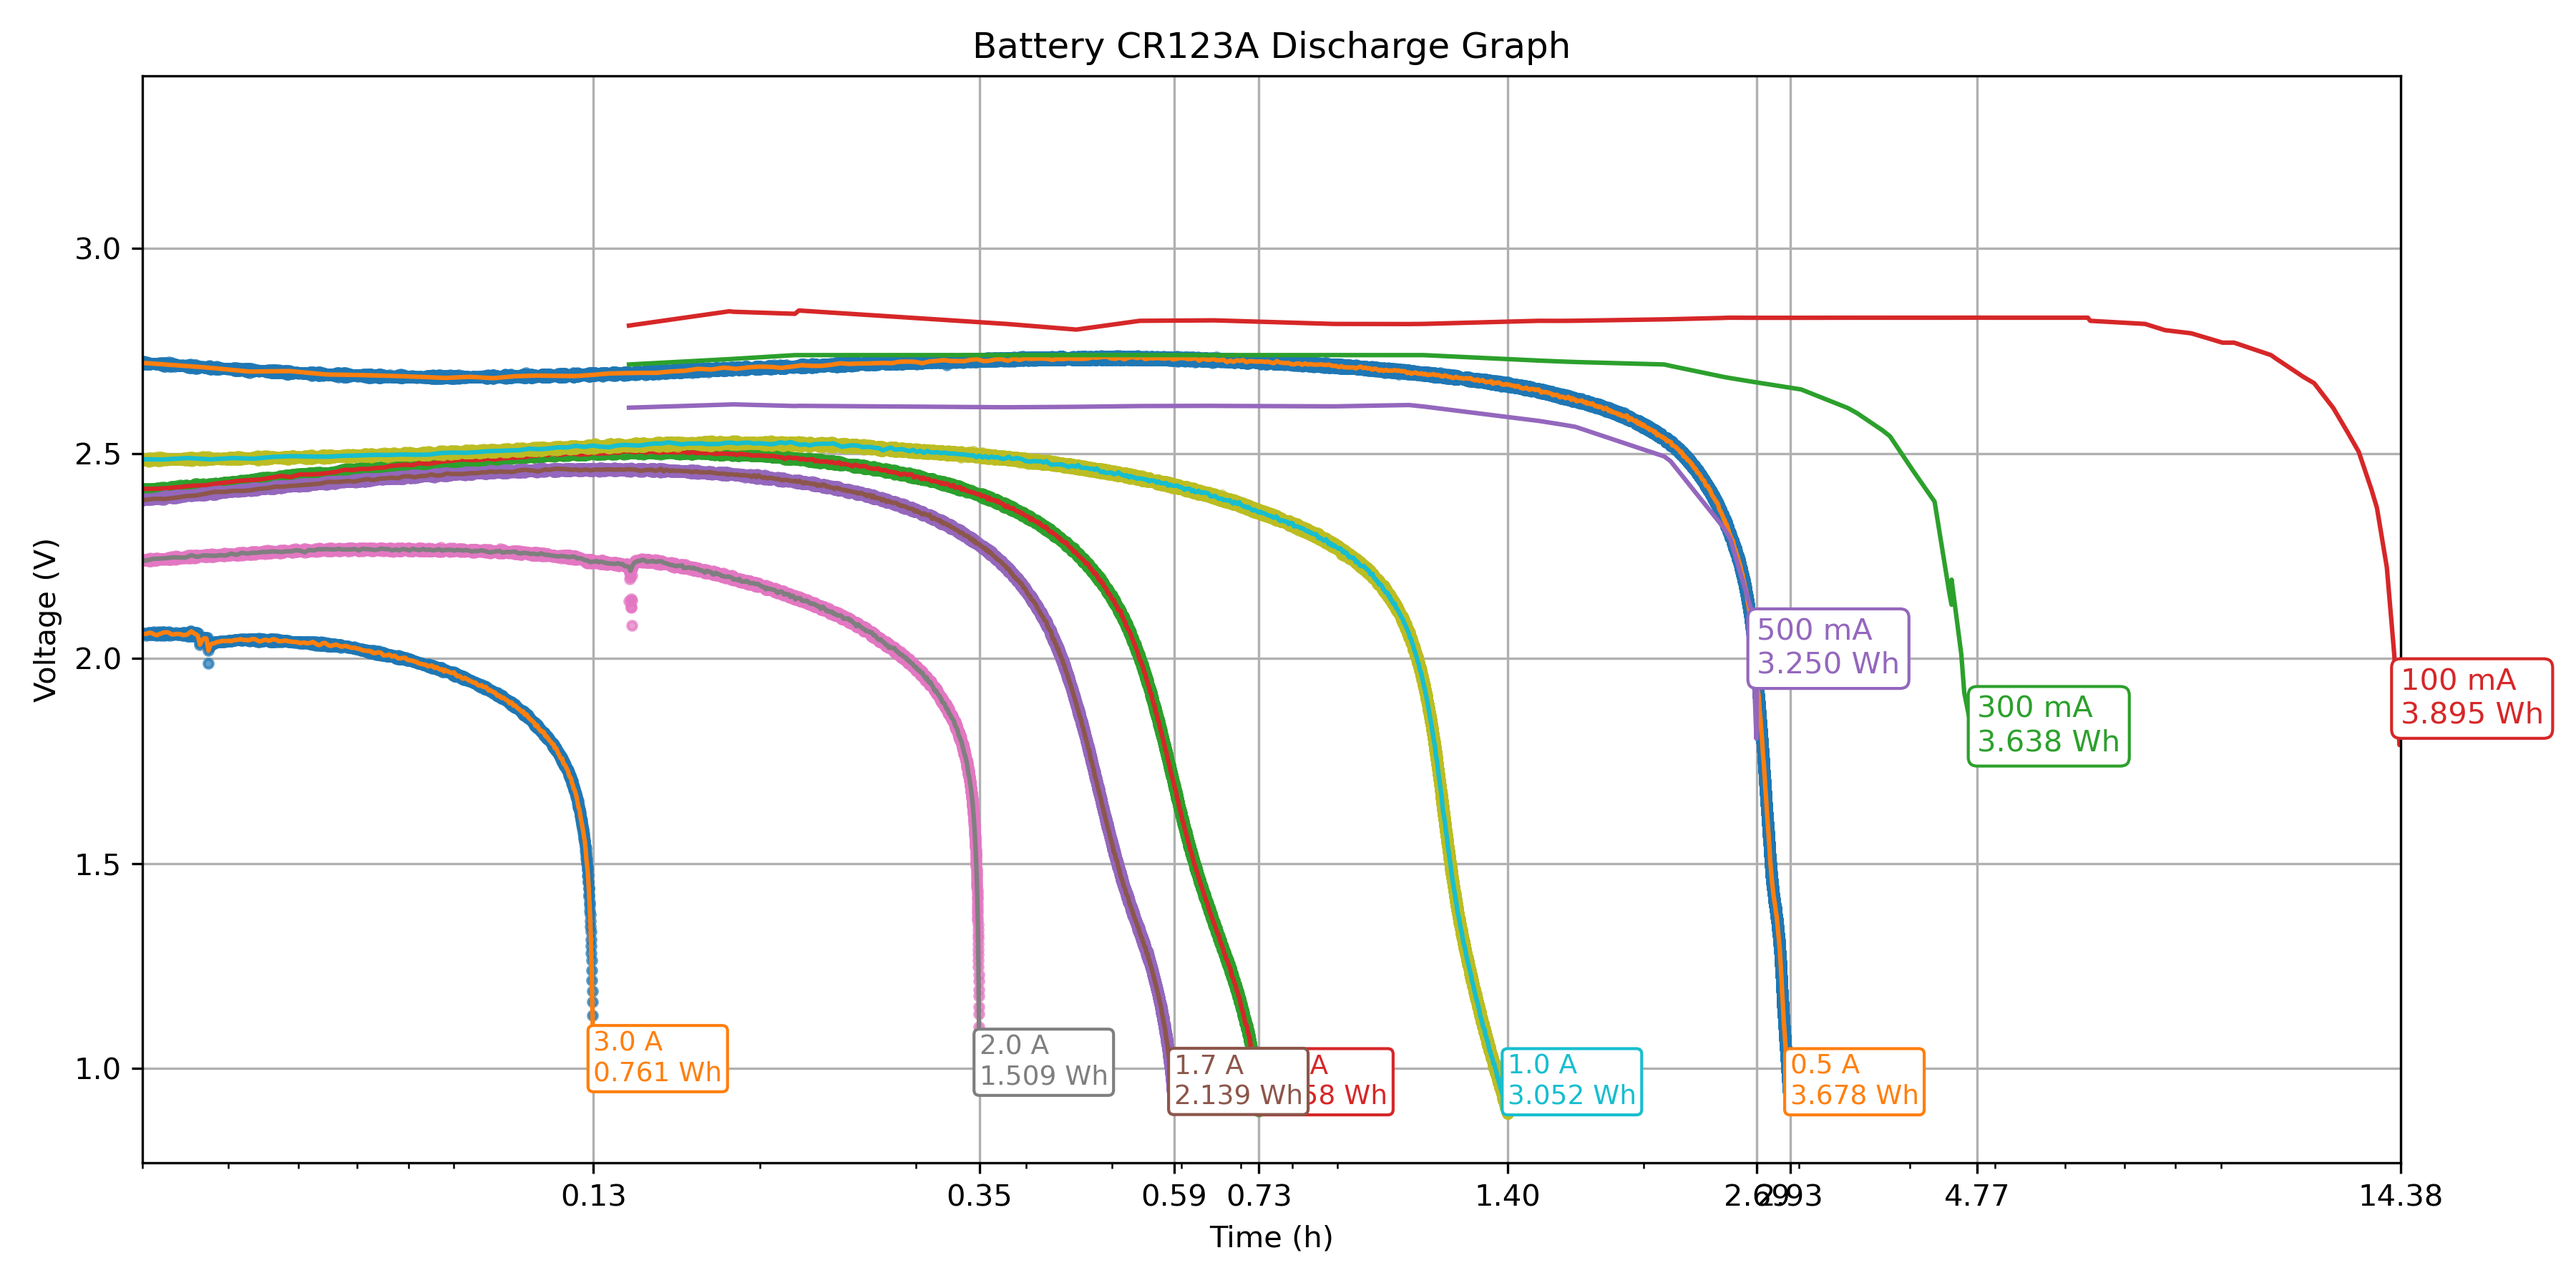
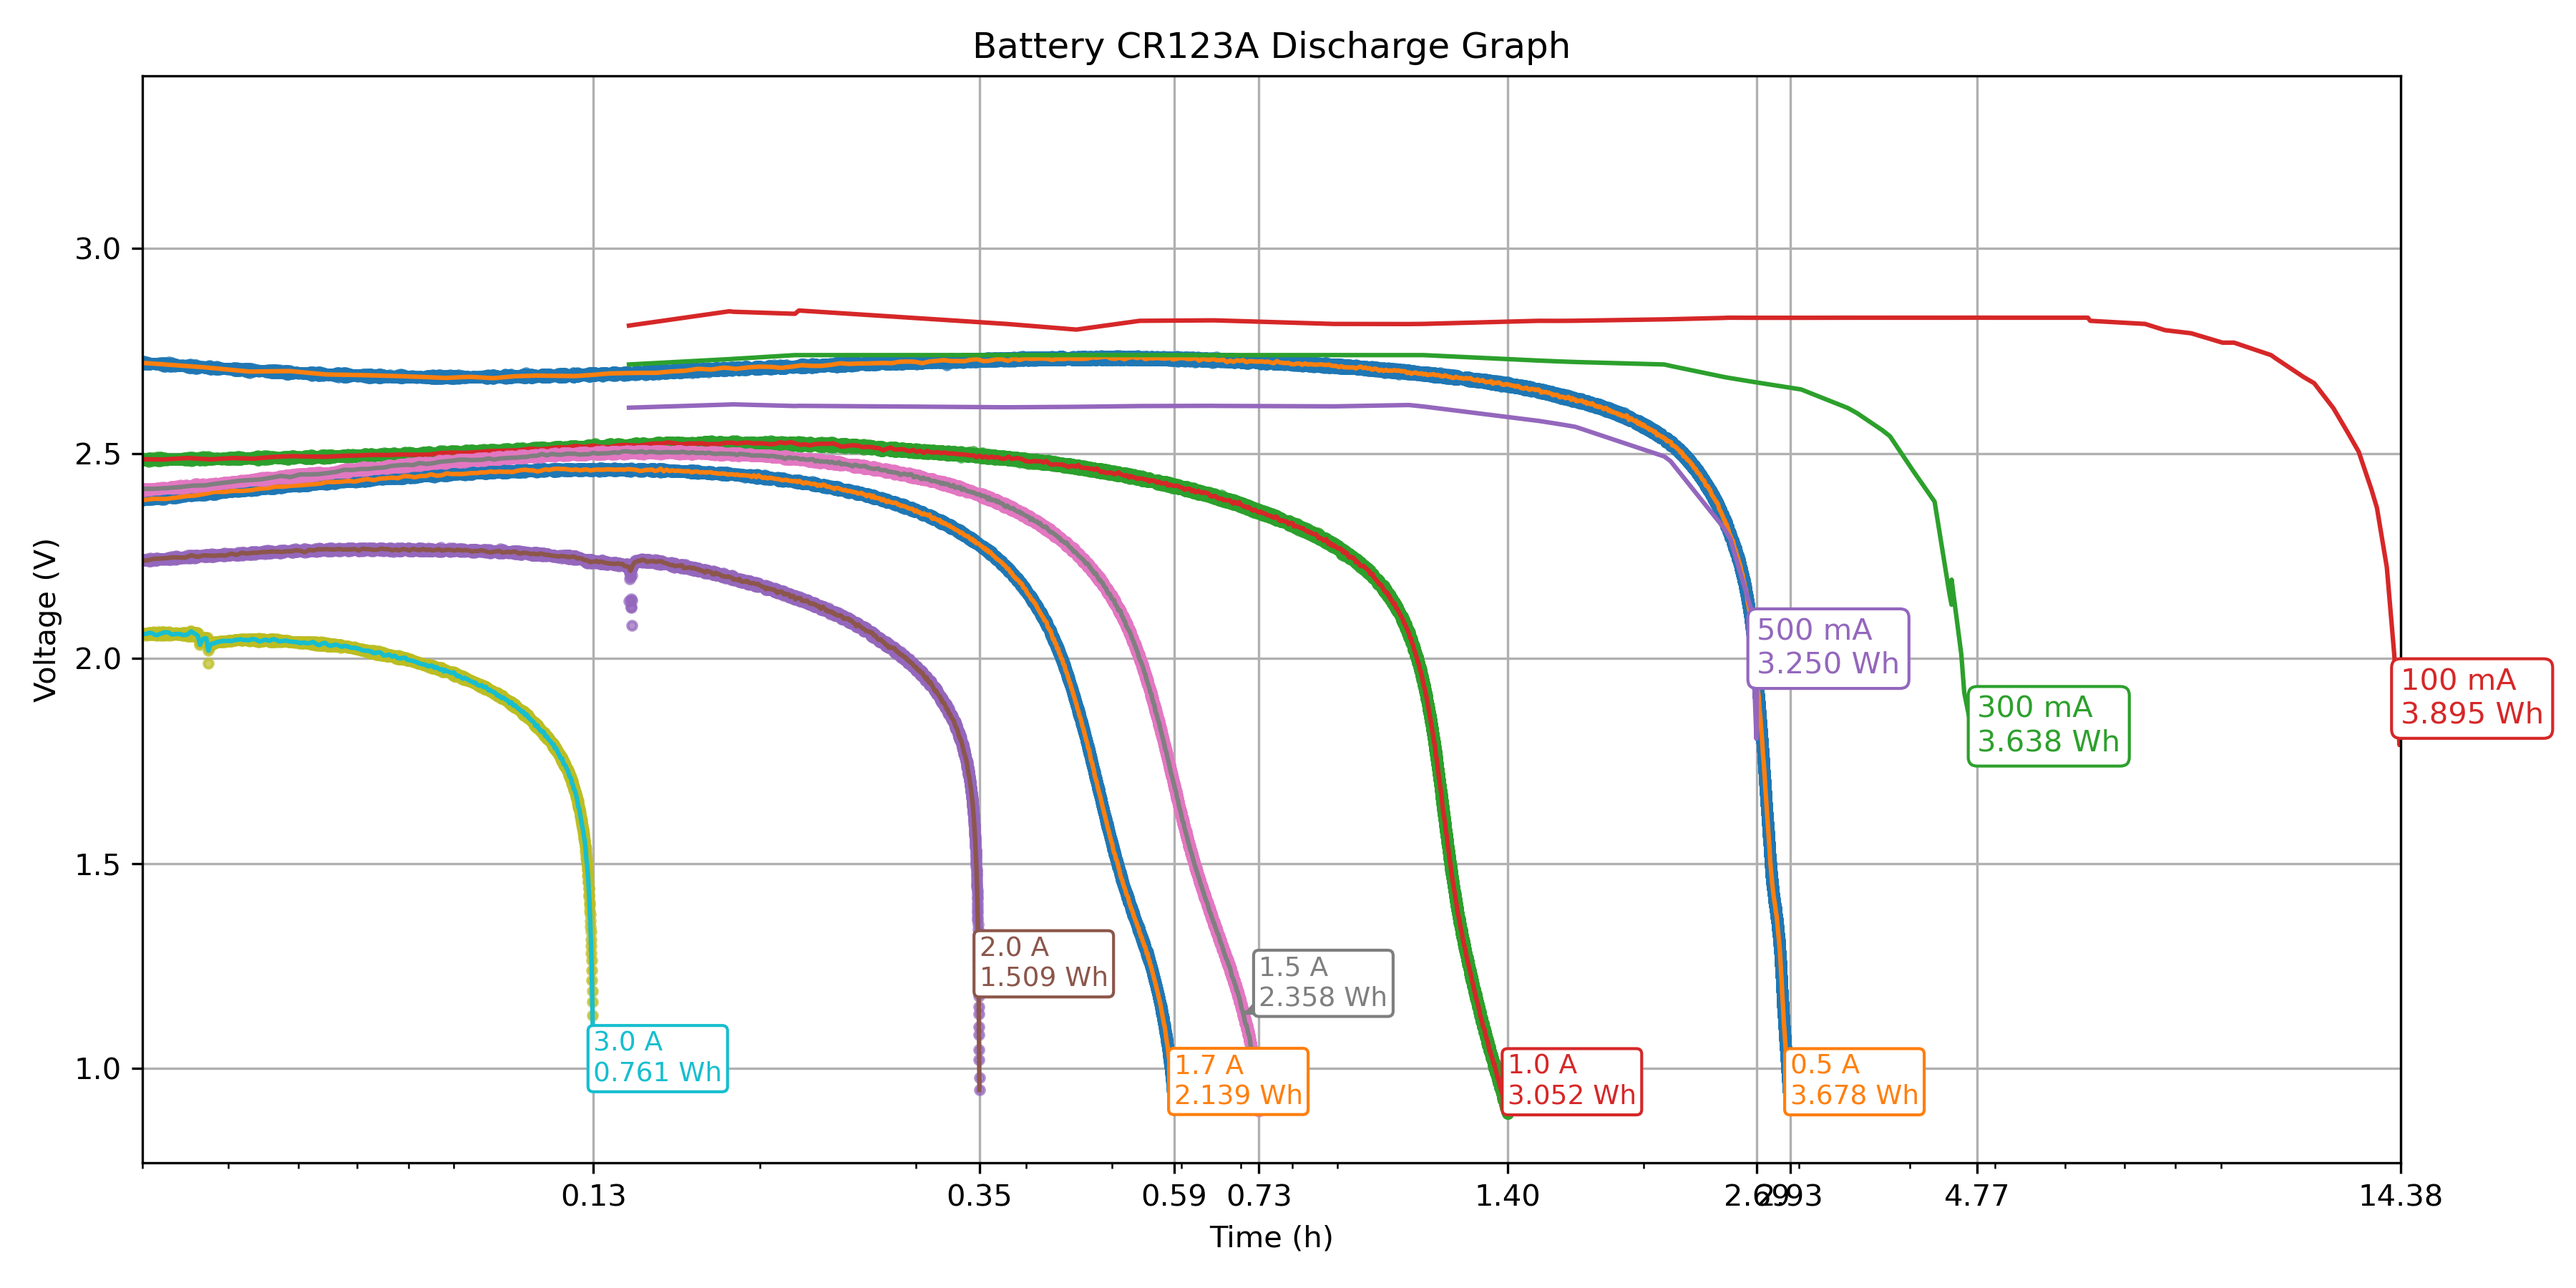
best view

diff --git a/view.py b/view.py
@@ -41,6 +41,158 @@ def calculate_energy(voltage_list, time_list, current_a):
     return energy_wh
 
 
+def estimate_annotation_size(text, fontsize=9):
+    """
+    Estimates the approximate size of an annotation based on the length of the text and font size.
+    
+    Parameters:
+        text: Annotation text
+        fontsize: Font size
+        
+    Returns:
+        tuple: (width, height) approximate dimensions
+    """
+    lines = text.split('\n')
+    max_line_length = max(len(line) for line in lines)
+    
+    # Improved coefficients for better size estimation
+    width_per_char = 0.015 * (fontsize / 9)  # Increased width per character
+    height_per_line = 0.06 * (fontsize / 9)  # Increased height per line
+    
+    # Add padding
+    width = max_line_length * width_per_char + 0.05
+    height = len(lines) * height_per_line + 0.02
+    
+    return width, height
+
+def rectangles_overlap(rect1, rect2, margin=0.08):
+    """
+    Checks if two rectangles overlap.
+    
+    Parameters:
+        rect1: (x, y, width, height) of the first rectangle
+        rect2: (x, y, width, height) of the second rectangle
+        margin: additional margin
+        
+    Returns:
+        bool: True if the rectangles overlap
+    """
+    x1, y1, w1, h1 = rect1
+    x2, y2, w2, h2 = rect2
+    
+    # Add margin to dimensions
+    w1 += margin
+    h1 += margin
+    w2 += margin
+    h2 += margin
+    
+    # Check for overlap
+    return not (x1 + w1 < x2 or x2 + w2 < x1 or y1 + h1 < y2 or y2 + h2 < y1)
+
+def find_free_position(text, orig_xy, annotated_rects, fontsize=9):
+    """
+    Finds a free position for an annotation.
+    
+    Parameters:
+        text: Annotation text
+        orig_xy: Original coordinates (x, y)
+        annotated_rects: List of rectangles of existing annotations
+        fontsize: Font size
+        
+    Returns:
+        tuple: ((x, y), rect) coordinates for placing the annotation and its rectangle
+    """
+    x_text, y_text = orig_xy
+    orig_x, orig_y = orig_xy
+    
+    # Parameters for search - prioritize upward movement
+    vertical_offset = 0.12  # Increased vertical offset
+    horizontal_offset = 0.04  # Increased horizontal offset
+    max_attempts = 200  # More attempts
+    
+    attempts = 0
+    direction = 1
+    
+    # Estimate annotation size
+    width, height = estimate_annotation_size(text, fontsize)
+    current_rect = (x_text, y_text, width, height)
+    
+    # Store the best position found with minimum overlaps
+    best_position = (x_text, y_text)
+    best_rect = current_rect
+    min_overlaps = float('inf')
+    
+    # Check for overlap with existing annotations
+    while any(rectangles_overlap(current_rect, rect) for rect in annotated_rects) and attempts < max_attempts:
+        # First try moving up to avoid overlaps
+        if attempts < 30:
+            # Prioritize upward movement for first attempts
+            y_text += vertical_offset
+        else:
+            # After initial attempts, use a more varied approach
+            if attempts % 3 == 0:
+                # Move up
+                y_text += vertical_offset
+            elif attempts % 3 == 1:
+                # Move horizontally
+                x_text += direction * horizontal_offset
+                direction *= -1
+            else:
+                # Try diagonal movement
+                y_text += vertical_offset * 0.7
+                x_text += direction * horizontal_offset * 0.7
+        
+        # Increase offsets after many attempts
+        if attempts % 10 == 0 and attempts > 0:
+            vertical_offset *= 1.2
+            horizontal_offset *= 1.2
+        
+        attempts += 1
+        
+        # Update rectangle
+        current_rect = (x_text, y_text, width, height)
+        
+        # Count overlaps for this position
+        overlap_count = sum(1 for rect in annotated_rects if rectangles_overlap(current_rect, rect))
+        
+        # Keep track of position with minimum overlaps
+        if overlap_count < min_overlaps:
+            min_overlaps = overlap_count
+            best_position = (x_text, y_text)
+            best_rect = current_rect
+        
+        # If no overlaps, we found a good position
+        if overlap_count == 0:
+            break
+    
+    # If we couldn't find a perfect position, use the best one
+    if attempts >= max_attempts:
+        return best_position, best_rect
+    
+    return (x_text, y_text), current_rect
+
+def find_nearest_point(x_array, y_array, x_target, y_target):
+    """
+    Finds the nearest point on the graph to the specified target coordinates.
+    
+    Parameters:
+        x_array: Array of x coordinates
+        y_array: Array of y coordinates
+        x_target: Target x coordinate
+        y_target: Target y coordinate
+        
+    Returns:
+        tuple: (x, y) of the nearest point on the graph
+    """
+    # Calculate distance to each point
+    distances = np.sqrt((np.array(x_array) - x_target)**2 + (np.array(y_array) - y_target)**2)
+    
+    # Find index of the minimum distance
+    idx = np.argmin(distances)
+    
+    # Return the nearest point
+    return x_array[idx], y_array[idx]
+
 def plot_all_data(files_data, indices, energies, discharge_currents, org_data_dict):
     """
     Plots data from multiple files on the same graph and annotates the energy values.
@@ -55,10 +207,10 @@ def plot_all_data(files_data, indices, energies, discharge_currents, org_data_di
     ax = plt.gca()
     log_ticks = []
 
-    # List to store occupied annotation coordinates (x, y)
-    annotated_points = []
+    # List to store annotation rectangles
+    annotated_rects = []
 
-    # Обработка данных из txt файлов
+    # Process data from txt files
     for file_name, data in files_data.items():
         time = [i * 0.25 / 3600 for i in range(len(data))]  # Time in hours
         log_ticks.append(time[-1])
@@ -80,44 +232,29 @@ def plot_all_data(files_data, indices, energies, discharge_currents, org_data_di
         ax.plot(time, data, ".", label=f"{file_name} (Original Data)", alpha=0.7)
         (line,) = ax.plot(interpolated_time, interpolated_data, "-", label=file_name)
 
-        # Координаты конца линии для аннотации
+        # Initial annotation position at the end of the line
         x_text = interpolated_time[-1]
         y_text = interpolated_data[-1]
-
-        # Улучшенное размещение аннотаций
-        vertical_offset = 20.08  # Увеличено
-        horizontal_offset = 0.03  # Увеличено
-        min_dist = 0.05  # Увеличено
-        orig_y = y_text
-        orig_x = x_text
-        max_attempts = 100  # Увеличено
-
-        attempts = 0
-        direction = 1
-        while any(
-            abs(y_text - y) < min_dist and abs(x_text - x) < 0.1  # Увеличено
-            for x, y in annotated_points
-        ) and attempts < max_attempts:
-            # Чередуем вверх/вниз и вправо/влево
-            if attempts % 2 == 0:
-                y_text += direction * vertical_offset
-            else:
-                x_text += direction * horizontal_offset
-
-            direction *= -1
-            # Увеличиваем смещения при большом количестве попыток
-            if attempts % 10 == 0 and attempts > 0:
-                vertical_offset *= 1.5
-                horizontal_offset *= 1.5
-
-            attempts += 1
-
-        annotated_points.append((x_text, y_text))
         
+        # Prepare annotation text
         label = f"{discharge_current} A\n{energy_wh:.3f} Wh"
+        
+        # Find free position for annotation
+        (x_text, y_text), rect = find_free_position(
+            label, (x_text, y_text), annotated_rects, fontsize=9
+        )
+        
+        # Find nearest point on the graph to the annotation position
+        nearest_x, nearest_y = find_nearest_point(
+            interpolated_time, interpolated_data, x_text, y_text
+        )
+        
+        # Add rectangle to list
+        annotated_rects.append(rect)
+        
         ax.annotate(
             label,
-            xy=(orig_x, orig_y),
+            xy=(nearest_x, nearest_y),  # Point the arrow to the nearest point
             xytext=(x_text, y_text),
             textcoords="data",
             arrowprops=dict(arrowstyle="->", color=line.get_color(), lw=1.5),
@@ -128,7 +265,7 @@ def plot_all_data(files_data, indices, energies, discharge_currents, org_data_di
             verticalalignment="bottom",
         )
 
-    # Обработка данных из org_data_dict - ИСПОЛЬЗУЕМ ТОТ ЖЕ АЛГОРИТМ для избежания наложений
+    # Process data from org_data_dict - use the same algorithm
     for label, data in org_data_dict.items():
         current_a = float(label.split()[0]) / 1000   
         energy = calculate_energy(data["voltage"], data["time"], current_a)
@@ -136,44 +273,27 @@ def plot_all_data(files_data, indices, energies, discharge_currents, org_data_di
         (line,) = ax.plot(data["time"], data["voltage"], label=label)
         log_ticks.append(data["time"][-1])
 
-        # Координаты для аннотации
+        # Initial annotation position at the end of the line
         x_text = data["time"][-1]
         y_text = data["voltage"][-1]
-        orig_x = x_text
-        orig_y = y_text
 
-        # Используем тот же алгоритм предотвращения наложений
-        vertical_offset = 0.08
-        horizontal_offset = 0.03
-        min_dist = 0.05
-        max_attempts = 100
-        attempts = 0
-        direction = 1
+        # Find free position for annotation
+        (x_text, y_text), rect = find_free_position(
+            text_label, (x_text, y_text), annotated_rects, fontsize=10
+        )
+        
+        # Find nearest point on the graph to the annotation position
+        nearest_x, nearest_y = find_nearest_point(
+            data["time"], data["voltage"], x_text, y_text
+        )
+        
+        # Add rectangle to list
+        annotated_rects.append(rect)
 
-        while any(
-            abs(y_text - y) < min_dist and abs(x_text - x) < 0.1
-            for x, y in annotated_points
-        ) and attempts < max_attempts:
-            # Чередуем вверх/вниз и вправо/влево
-            if attempts % 2 == 0:
-                y_text += direction * vertical_offset
-            else:
-                x_text += direction * horizontal_offset
-
-            direction *= -1
-            # Увеличиваем смещения при большом количестве попыток
-            if attempts % 10 == 0 and attempts > 0:
-                vertical_offset *= 1.5
-                horizontal_offset *= 1.5
-
-            attempts += 1
-
-        annotated_points.append((x_text, y_text))
-
-        # Добавляем аннотацию 
+        # Add annotation 
         ax.annotate(
             text_label,
-            xy=(orig_x, orig_y),
+            xy=(nearest_x, nearest_y),  # Point the arrow to the nearest point
             xytext=(x_text, y_text),
             textcoords="data",
             arrowprops=dict(arrowstyle="->", color=line.get_color(), lw=1.5),
